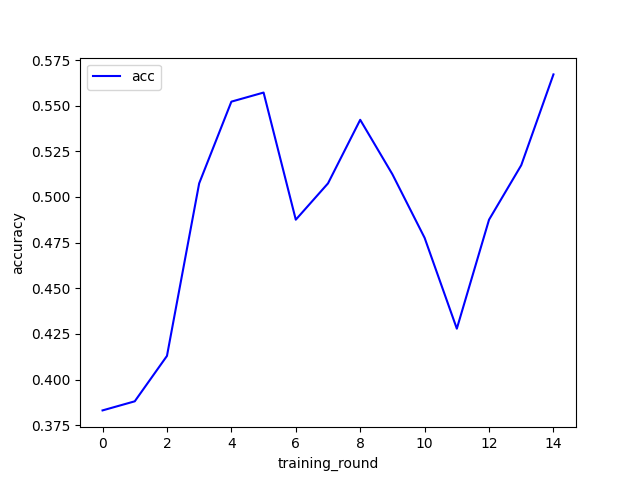
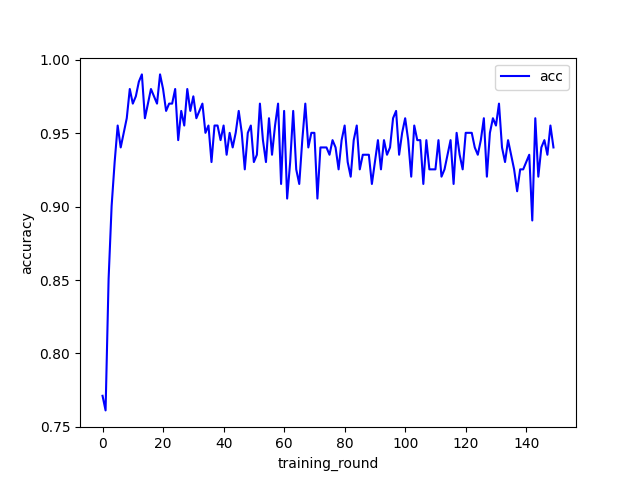
update

diff --git a/server.py b/server.py
@@ -19,7 +19,7 @@ def ml_fedavg(client_wts, client_data_sizes):
         for index2 in range(len(client_wts)):
             weights=client_wts[index2]['mlp'][index1]
             layer_weights.append(fracs[index2]*weights)
-        average_weight=np.mean(np.array([x for x in layer_weights]), axis=0)
+        average_weight=np.sum(np.array([x for x in layer_weights]), axis=0)
         average_weight_mlp.append(average_weight)
 
     #Averaging output layer weights
@@ -29,7 +29,7 @@ def ml_fedavg(client_wts, client_data_sizes):
         for index2 in range(len(client_wts)):
             weights=client_wts[index2]['output'][index1]
             outputs.append(fracs[index2]*weights)
-        average_output=np.mean(np.array([x for x in outputs]), axis=0)
+        average_output=np.sum(np.array([x for x in outputs]), axis=0)
         average_weight_output.append(average_output)
 
     #Averaging item embeddings for GMF
@@ -39,7 +39,7 @@ def ml_fedavg(client_wts, client_data_sizes):
         for index2 in range(len(client_wts)):
             weights=client_wts[index2]['item_embedding_gmf'][index1]
             item_gmf.append(fracs[index2]*weights)
-        average_item_gmf=np.mean(np.array([x for x in item_gmf]), axis=0)
+        average_item_gmf=np.sum(np.array([x for x in item_gmf]), axis=0)
         average_item_profile_gmf.append(average_item_gmf)
 
     #Averaging item embeddings for MLP
@@ -49,7 +49,7 @@ def ml_fedavg(client_wts, client_data_sizes):
         for index2 in range(len(client_wts)):
             weights=client_wts[index2]['item_embedding_mlp'][index1]
             item_mlp.append(fracs[index2]*weights)
-        average_item_mlp=np.mean(np.array([x for x in item_mlp]), axis=0)
+        average_item_mlp=np.sum(np.array([x for x in item_mlp]), axis=0)
         average_item_profile_mlp.append(average_item_mlp)
 
 

diff --git a/plotting.py b/plotting.py
@@ -15,5 +15,5 @@ def plot(training_round):
     
     plt.show()
 
-arr = np.arange(0,15)
+arr = np.arange(0,150)
 plot(arr)
